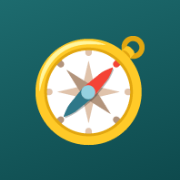
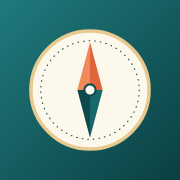
換成指南針圖示（iPhone 主畫面）
Claude-Session: https://claude.ai/code/session_011d3KcHVECpJ2P6r2DCLSVf

Changed region(s): [[0.1389, 0.1389, 0.8611, 0.8611]]

diff --git a/sw.js b/sw.js
@@ -1,4 +1,4 @@
-const V='tp-v1',FILES=['./','./index.html','./manifest.webmanifest','./icon-192.png','./icon-512.png','./icon-180.png'];
+const V='tp-v2',FILES=['./','./index.html','./manifest.webmanifest','./icon-192.png','./icon-512.png','./icon-180.png'];
 self.addEventListener('install',e=>{e.waitUntil(caches.open(V).then(c=>c.addAll(FILES)).then(()=>self.skipWaiting()))});
 self.addEventListener('activate',e=>{e.waitUntil(caches.keys().then(k=>Promise.all(k.filter(x=>x!==V).map(x=>caches.delete(x)))).then(()=>self.clients.claim()))});
 self.addEventListener('fetch',e=>{const r=e.request,u=new URL(r.url);
